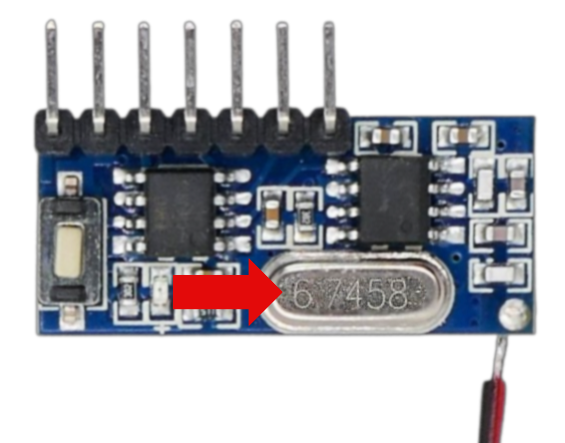
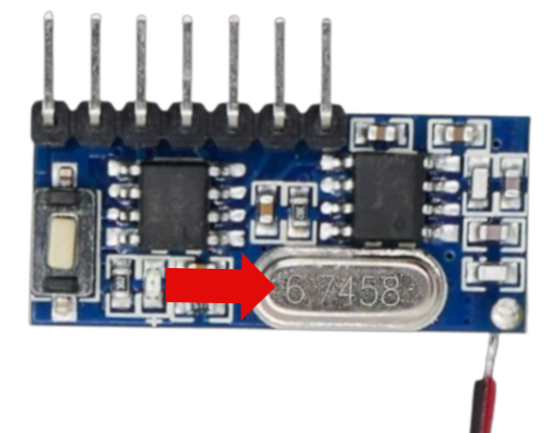
rf

Changed region(s): [[0.0308, 0.03, 0.9855, 1.0], [0.2772, 0.3002, 0.308, 0.3303]]

diff --git a/Components/Data/Data Transmission/Wireless/Short Range Device/AM/ASK/EV1527/Receiver/RX480E-4/README.md b/Components/Data/Data Transmission/Wireless/Short Range Device/AM/ASK/EV1527/Receiver/RX480E-4/README.md
@@ -1,185 +1,208 @@
 <img src="/assets/images/radio_walkytalky.png" width="100%" height="100%" />
- 
+
 # RX480-E
 
-> Self-Learning 4-Channel EV1527-Compliant Receiver With Latch- And Push-button Mode 
+> Self-Learning 4-Channel EV1527-Compliant Receiver with Latch and Momentary Modes
 
-The *RX480-E* breakout board is a one-stop solution to add remote control capabilities to devices.
+The *RX480-E* breakout board provides an easy way to add remote control functionality to your devices.
 
 <img src="images/rx_ev1527_rx480e_side_t.png" width="60%" height="60%" />
 
-This receiver does not require any additional external components to pick up and interpret control signals sent by a *EV1527*-compliant *remote control*.
-
+This receiver operates without requiring additional external components, allowing it to receive and decode signals from an *EV1527*-compliant remote control.
 
 ## Overview
 
-The *RX480-E* is a small breakout board capable of receiving *EV1527*-compliant signals from remote controls. It can distinguish four different signals so it can respond to up tp four buttons on a remote control.
+The *RX480-E* is a compact breakout board designed to receive *EV1527*-compliant signals from remote controls. It can distinguish up to four unique signals, enabling control of up to four different functions.
 
-
-The breakout board often comes bundled with a ready-to-use *remote control*, but any other *EV1527*-compliant remote control will do.
+The breakout board is often sold with a compatible *remote control*, but any *EV1527*-compliant remote control will work.
 
 <img src="images/rx_ev1527_rx480e_kit_t.png" width="60%" height="60%" />
 
 ### Frequency
-The board is available in two different frequencies: 433MHz (Europe) *or* 315MHz (US). Since the frequency is set by a fixed crystal, you cannot change it. 
 
-Make sure you use the board version for the frequency that is legal to operate in your region, and also make sure the remote control operates in the same frequency.
+The board is available in two primary frequency versions: **433 MHz** (commonly used in Europe) and **315 MHz** (used in the US and parts of Asia). The frequency is determined by a fixed crystal oscillator and **cannot be changed**.
 
-| Frequency (MHz) | Typical Crystal Frequency (MHz) | Description |
+Ensure that you select the correct version for your region and that your remote control operates at the same frequency.
+
+| Frequency (MHz) | Crystal Frequency (MHz) | Region |
 | --- | --- | --- |
-| 315.0 | 10.526 | US, Asia |
-| 433.92 | 13.225 | Europe |
-| 868.35 | 26.000 | rarely used |
+| 315.00 | 10.245 (factor 30) or 12.000 (factor 26) | US, Asia |
+| 433.92 | 6.7458 (factor 64) or 13.225 (factor 32) | Europe |
+| 868.35 | 26.000 (factor 33), or 32.768 (factor 27) | Rarely used |
 
-If in doubt which frequency your board uses, look at the crystal frequency which is typically laser-engraved on the housing.
+If you are unsure about your board's frequency, check the crystal, which typically has its frequency **laser-engraved** on the housing. 
+The crystal frequency is multiplied by a **Phase-Locked Loop (PLL)** circuit (typically by a factor of *32*) to achieve the final transmission frequency.
+
+> [!NOTE]
+> Cheap remote controls often use readily available industry-standard crystals. The multiplication factor may not exactly result in the desired frequency. Deviations around *1MHz* can be tolerated, though, and *PLL* can further adjust the final reception frequency.
 
 <img src="images/rx480-e_crystal_marked_t.png" width="60%" height="60%" />
-
-The crystal frequency is multiplied by a factor (such as *32*), usually via *Phase-Locked Loop (PLL)*, to reach the transmission frequency.
-
 
 
 ## Pins and Wiring
 
-The board comes with *seven* pins plus a solder pad for an *antenna* that is marked as *ANT* on the back side.
+The board features **seven pins** plus a solder pad for an **antenna**, labeled *ANT* on the back.
 
 <img src="images/rx_ev1527_rx480e_back_t.png" width="60%" height="60%" />
 
-### Add Antenna
-Always operate the receiver *with an antenna*. If no designated antenna is at hand, use a plain *17.3cm* wire for *433MHz*, and a *23.8cm* wire for *315MHz*.
+### Adding an Antenna
 
+Always operate the receiver **with an antenna**. If no designated antenna is available, you can use a simple **17.3 cm** wire for **433 MHz** or a **23.8 cm** wire for **315 MHz**.
 
 <img src="images/rx480-e_antenna.jpg" width="60%" height="60%" />
 
-Typically, the boards come with no antenna soldered. Without an  antenna, reception is poor, and the receiver may not be able to pick up signals from a remote control at all.
-
+Most boards come without an antenna pre-soldered. Without one, reception is poor, and the receiver may not detect signals from the remote control at all.
 
 <img src="images/rx480-e_antenna_connected_t.png" width="60%" height="60%" />
 
+### Pinout
 
-### Pins
 The pins are labeled on the back of the board:
 
-| Pin | Tag | Description |
+| Pin | Label | Description |
 | --- | --- | --- |
-| 1 | GND | negative pole |
-| 2 | +V | +3.3-5V |
-| 3 | D0 | high when received code 1 |
-| 4 | D1 | high when received code 2 |
-| 5 | D2 | high when received code 3 |
-| 6 | D3 | high when received code 4 |
-| 7 | VT | high when received any valid code |
+| 1 | GND | Ground (negative pole) |
+| 2 | +V | Power supply (3.3V–5V) |
+| 3 | D0 | High when channel 1 is enabled |
+| 4 | D1 | High when channel 2 is enabled |
+| 5 | D2 | High when channel 3 is enabled |
+| 6 | D3 | High when channel 4 is enabled |
+| 7 | VT | High when receiving any valid code |
 
-Connect **GND** and **+V** to power. The red on-board LED will blink once, then turns off again.
+Note that in default *Push* mode, **D0**-**D3** and **VT** behave similarly and are *high* for as long as a signal is received. Once you switch to a different latching mode, though, **D0-D3** and **VT** can differ considerably: now, **D0-D3** represent the channels' *state* (in *self-locking* latch mode, this can be *high* even though *no* signal is received anymore), whereas **VT** is always *high* for as long as *any* valid signal *is being received*.
 
-The pins **D0** through **D3** respond now to one of four predefined codes sent by the remote control. **VT** is a *summary* pin and turns *high* when *any* of the four valid codes is received.
+Note also that the receiver may assign buttons to the pins **D0-D3** not in the order in which they have been paired. 
 
-However, before the receiver can respond to remote control button presses, you need to *pair* it to the remote control. During pairing, the receiver reads and stores ("learns") the specific codes sent by the remote control buttons.
+#### Connecting Power
 
-> [!TIP]
-> If you have used the receiver before, you might want to explicitly *reset* it to factory defaults, making sure it "forgets" any previously learned code.
+Connect **GND** and **+V** to a **3.3V–5V** power source. The onboard red LED will blink once, then turn off.
 
+#### Understanding the Output Pins
 
+The pins **D0** through **D3** correspond to four unique codes sent by the remote control. When the receiver detects a signal for a specific code, the corresponding pin goes **high**.
+
+The **VT (Valid Transmission)** pin serves as an indicator:  
+- It turns **high** whenever *any* valid remote code is received.  
+- It remains **high only while the signal is being received**.  
+- If the receiver is set to **latch mode**, **VT will not reflect the output state**.
+
+### Pairing the Receiver
+
+Before the receiver can respond to remote control button presses, it must be **paired** with the remote. During this process, the receiver "learns" and stores the unique codes transmitted by the remote control.
+
+> [!TIP]  
+> If the receiver was previously used, consider **resetting** it to factory defaults to clear any stored codes before pairing a new remote.
 ## Factory Reset
 
-Before you start working with the receiver, you should *reset* it to factory defaults. This makes sure no previously stored settings are interfering.
+Before working with the receiver, it's recommended to **reset** it to factory defaults. This ensures no previously stored settings interfere with operation.
 
-To reset the *receiver*, press the button *eight* times. Each time you press the button, the red on-board LED lights up. Once you have pressed the button eight times, after a second the LED blinks four times to indicate successful reset.
+To reset the **receiver**, press the button **eight times**. Each time the button is pressed, the red onboard LED lights up. After the eighth press, the LED will blink **four times** after a brief delay, confirming a successful reset.
 
 <img src="images/rx_ev1527_rx480e_top_t.png" width="60%" height="60%" />
-
 
 ## Pairing
 
-The *receiver* needs to be *paired* with the remote control that you want to use with this *receiver*.
+The **receiver** must be *paired* with the remote control before use.
 
-The pairing process works for *one remote control button at a time*, so if you want to teach the receiver four different remote control buttons, you need to repeat the learning process below four times:
+The pairing process applies to **one remote control button at a time**, so if you want to pair multiple buttons (up to four), repeat the process for each one.
 
 <img src="images/rx_ev1527_rx480e_button_t.png" width="60%" height="60%" />
 
+### Pairing Process
 
-1. Press and hold the button on the receiver for one second. Once you release the button, the on-board LED lights up constantly after a short delay.
-2. Now press the button on the remote control that you want to use. The receiver LED blinks three times to confirm, and the receiver returns to normal mode (receiving mode).
+1. Press and hold the **receiver's button** for **one second**, then release it. The onboard LED will turn on after a short delay.
+2. Press the **desired button** on the remote control. The receiver LED will blink **three times**, confirming successful pairing. The receiver then returns to normal receiving mode.
 
-Press the button on the remote control again. The receiver LED will light up for as long as you press the button on the remote control.
+Now, press the paired button on the remote again—the receiver LED will light up as long as you hold the button.
 
-Repeat the process for up to three additional buttons on your remote control.
+Repeat this process for up to **three additional buttons**.
 
-> [!TIP]
-> Since the receiver adds new button codes to the existing ones until its 4-button memory is full, make sure you **reset** the receiver as shown above before teaching it a completely new remote control. Resetting the receiver is also necessary when you want to change its latching mode.
-
-### Tips & Tricks
-
-Here are a few considerations if things don't work as intended:
-
-* **Cannot Pair Remote Control:**    
-  - Do receiver and remote control work on the same frequency? Check the crystal frequency if in doubt.
-  - Did you attach an antenna to the receiver? Without antenna, reception is very poor, and the receiver may not pick up the remote signal
-  - Check the remote control batteries. 
-* **No LED Response When Pressing Remote Control Button:**    
-  - Did you *pair* the receiver to this particular remote control button yet? Try *resetting* the receiver, then pairing again.
-  - Did you attach an antenna to the receiver? Without antenna, reception is very poor, and the receiver may not pick up the remote signal
-
-If things still don't work, try and identify where the problem is located:
-
-* **Receiver:** focus on the receiver board first.    
-  - **Reset** it: Can you see the built-in red LED confirm the reset by blinking four times? If not, the receiver board may be defective.
-* **Sender:** once the receiver works, shift focus to the remote control (sender):
-  - **Antenna:** does the remote control have an antenna? For basic testing, move the remote control close to the receiver to exclude range issues.
-  - **Pair** it: repeat the pairing process. Check to see whether the receiver board LED responds to the remote control button press.
-  - **Test other remote controls:** if the receiver does not respond to the remote control button press, test with a different remote control to exclude that your remote control may be defective, out of battery, or working in a different frequency range. Any EV1527 remote control can be used for testing, including typical garage door openers etc.
-
-Once remote control and receiver fundamentally work, next you can perform range tests to see what the maximum distance is for the signal to be reliably picked up. If the range is too short, make sure both remote control and receiver use appropriate antennas.
+> [!TIP]  
+> The receiver **stores new button codes without erasing existing ones** until all four memory slots are full. If you're pairing a new remote control or changing the latching mode, **reset** the receiver first to clear previous codes.
 
 
+## Troubleshooting
 
-## Setting Latch Mode
+* **Cannot Pair Remote Control**    
+  - **Check frequency compatibility:** Ensure the receiver and remote control operate on the same frequency (e.g., **433 MHz** or **315 MHz**). If in doubt, check the crystal oscillator.
+  - **Antenna required:** Attach an antenna to the receiver. Without one, signal reception is significantly reduced.
+  - **Check remote control batteries:** Weak or dead batteries can prevent proper signal transmission.
 
-By default, the *receiver* is in *push button mode*: the output pin is *HIGH* for as long as the button on the *remote control* is pressed. Once the button is released, the output pin returns to *LOW* - just like a *push button* or *momentary switch* would behave. This is perfect for controlling *toggle actions* like *garage doors*, or *Home Assistant*, which typically require just a toggle *impulse*.
+* **No LED Response When Pressing Remote Control Button**   
+  - **Ensure proper pairing:** If the receiver LED does not light up, try **resetting** the receiver and re-pairing the button.
+  - **Check antenna connection:** Without an antenna, the receiver may not detect signals from the remote control.
 
-Depending on what you want to control, the board supports three different latching modes:
-
-* **Push button:** *(default)* the selected channel is *on* only for as long as the remote control signal is received.
-* **Self-Locking:** each time the board receives a code, it *toggles* from *on* to *off* and vice versa.
-* **Mutual Exclusive:** like *self-locking*, but once a different channel becomes active, the channel falls back to *off*. In this mode, only *one* channel is active at any time.
-
-### Changing Latch Mode
-A new latch mode can only be set when the receiver is in factory default mode, so you need to **reset** it first: press the button *eight* times, and wait for the *four* confirmation blinks.
-
-
-
-<img src="images/rx_ev1527_rx480e_top_t.png" width="60%" height="60%" />
-
-### Selecting Latch Mode
-
-To set a new latch mode, press the button *once*, *twice*, or *three times*:
-
-| Mode  | Key Press | 
-| --- | --- | 
-| Push Button Mode | 1x  | 
-| Self-Locking Mode | 2x | 
-| Multually Exclusive Self-Locking | 3x  |  
-
-This will set the latch mode and also immediately enter *pairing mode*: the *LED* lights up and waits for you to press a key on the *remote control* you want to pair. Once successfully paired, the *LED* blinks *three times*.
-
-Repeat the pairing process as described above for up to three additional remote control buttons.
-
-> [!IMPORTANT]
-> Regardless of latching mode, the built-in LED continues to light up for as long as you press a paired remote control button. So the internal receiver LED does not signal the latch state. It signals whenever the receiver receives a valid signal code.
+* **No Signal on D0–D3 Pins:**    
+  If pressing a paired button does not produce a **high** signal on any **D0–D3** pin:
+    - **Try a different pin:** The receiver may not assign button codes in the exact order they were paired. Test all **D0–D3** outputs.
 
 
-## Technical Data
+### Identifying the Problem: Receiver vs. Remote Control
+
+* **Receiver Diagnostics**
+  - **Perform a reset:** Does the **red LED blink four times** after resetting? If not, the receiver may be faulty.
+  - **Verify power connection:** Ensure the receiver is properly powered (3.3V–5V).
+
+* **Remote Control (Sender) Diagnostics**
+  - **Check antenna & range:** If possible, attach an antenna to the remote. Move the remote closer to the receiver to rule out range issues.
+  - **Repeat the pairing process:** Confirm that the receiver LED reacts to button presses.
+  - **Test with another remote:** If available, try pairing a different **EV1527-compatible** remote control (e.g., garage door remotes) to confirm if the issue lies with the remote.
 
 
-| Item | Value |
-| --- | --- |
-| Voltage | 3.3-5V |
-| Frequency | 433MHz *or* 315MHz |
-| Operating Current | 5mA |
-| Modulation Mode | AM (OOK) |
-| Transmission Rate | EV1527 |
-| Size | 28x12.3x5mm |
+### Optimizing Signal Range
 
+Once pairing is successful, test the **signal range** by moving further from the receiver. If the range is too short:
+- **Ensure both receiver and remote control have proper antennas.**
+- **Check for signal interference** from nearby electronics or other RF devices.
+
+With proper setup and tuning, the receiver should reliably detect remote control signals over a long distance.
+
+## Setting Operating Mode (Latch Mode)  
+
+By default, the *receiver* operates in *push button mode*: the output pin remains *high* for as long as the button on the *remote control* is pressed. Once released, the output pin returns to *LOW*—just like a *push button* or *momentary switch*. This mode is ideal for *toggle actions* such as *garage doors* or *Home Assistant*, where only a brief *impulse* is required.  
+
+Depending on your needs, the board supports many alternative latching modes:  
+
+| Mode | Number of Button Presses | Description |  
+| --- | --- | --- |  
+| **Push Button** | 1 | *(Default)* The selected channel stays *on* only while the remote control signal is received. |  
+| **Self-Locking** | 2 | Each button press *toggles* the state between *on* and *off*. |  
+| **Mutual Exclusive** | 3 | Similar to *self-locking*, but activating one channel automatically turns the previous one *off*. Only *one* channel can be active at a time. So if *Channel 1* is on and you activate *Channel 2*, *Channel 1* turns off automatically. |  
+| **2xPush & 2xSelf-Locking** | 4 | Two channels operate in *push button mode*, while the other two use *self-locking mode*. |  
+| **2xPush & 2xMutual Exclusive** | 5 | Two channels function in *push button mode*, and two in *mutual exclusive mode*. |  
+| **2xSelf-Locking & 2xMutual Exclusive** | 6 | Two channels work in *self-locking mode*, while the remaining two use *mutual exclusive mode*. |  
+
+### Changing Operation Mode  
+
+A new operation mode can only be set when the receiver is in factory default mode, so you must **reset** it first:  
+
+Press the button *eight times*. The LED blinks *four times* to confirm the reset was successful. 
+
+<img src="images/rx_ev1527_rx480e_top_t.png" width="60%" height="60%" />  
+
+Now, to set a new operation mode, press the button the number of times corresponding to the desired mode (see table above).  
+
+For example:  
+- To set all four buttons to *self-locking mode*, press the button *twice*.  
+- To configure two buttons as *push mode* and two as *mutual exclusive*, press it *five times*.  
+
+After setting the latch mode, the receiver immediately enters *pairing mode* for the first remote control button. The red *LED* lights up, indicating it is ready to pair. Press the desired button on the *remote control* to complete pairing. If successful, the *LED* blinks *three times*.  
+
+Repeat the pairing process for up to three additional remote control buttons by pressing the button again and repeating the pairing steps.  
+
+> [!IMPORTANT]  
+> The built-in LED lights up only when a paired remote control button is pressed. It does not indicate whether a channel remains on or off after the signal is received.
+
+## Technical Data  
+
+| Item | Value |  
+| --- | --- |  
+| Voltage | 3.3-5V |  
+| Frequency | 433MHz *or* 315MHz |  
+| Operating Current | 5mA |  
+| Modulation Mode | AM (OOK) |  
+| Transmission Rate | EV1527 |  
+| Size | 28x12.3x5mm |  
 
 
 
